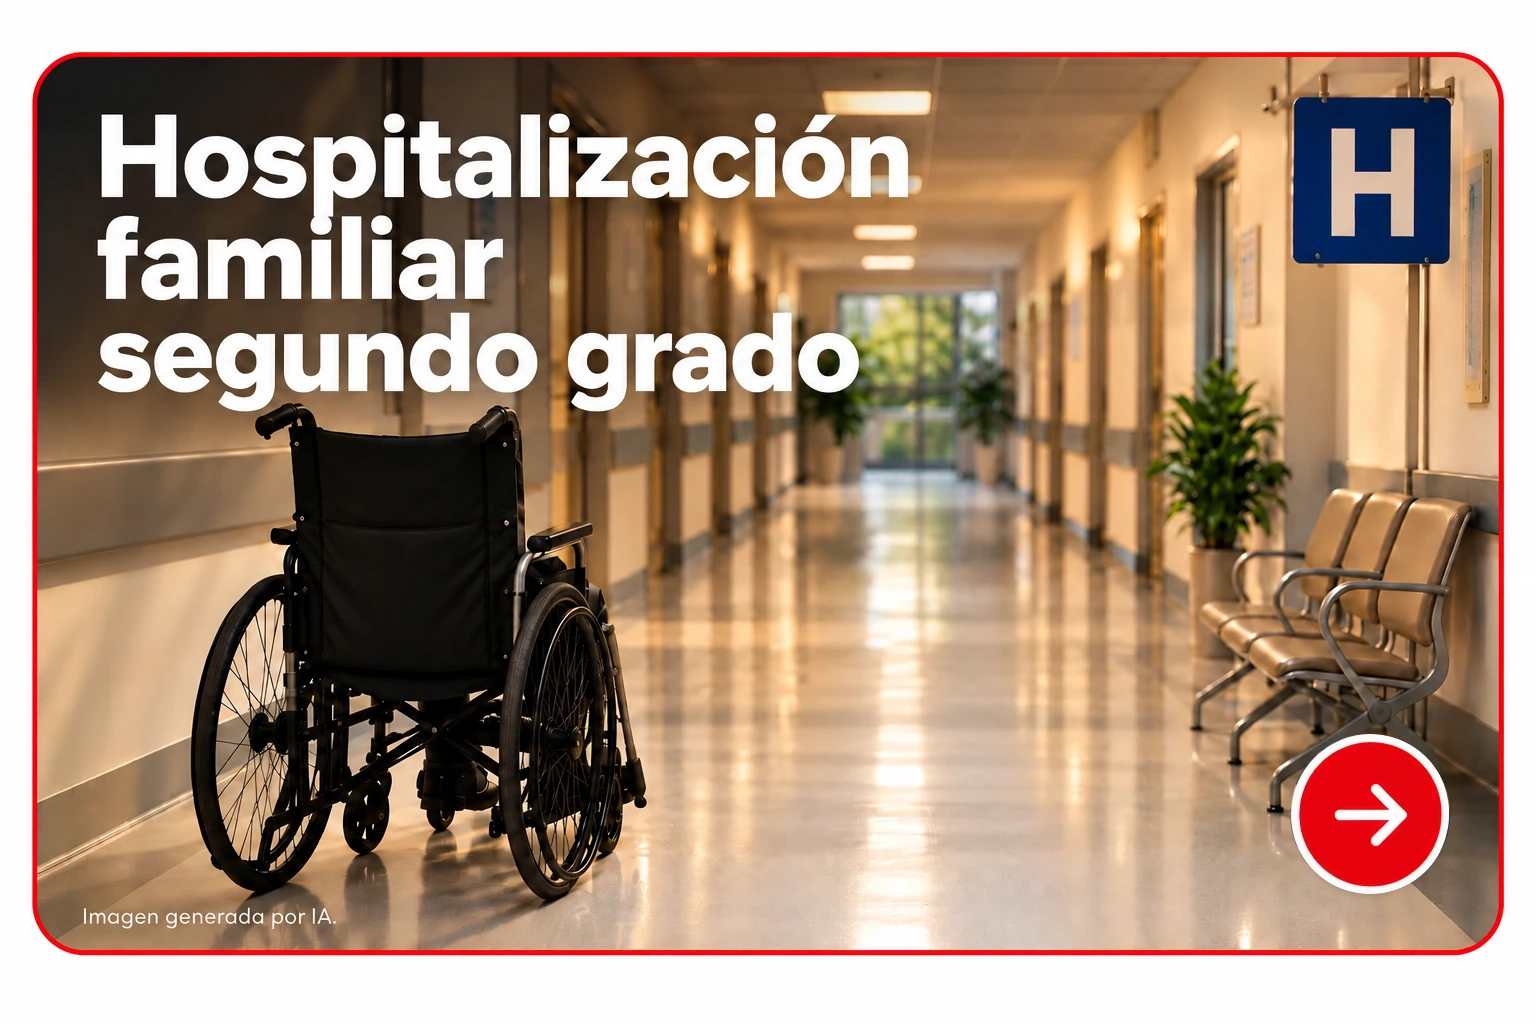
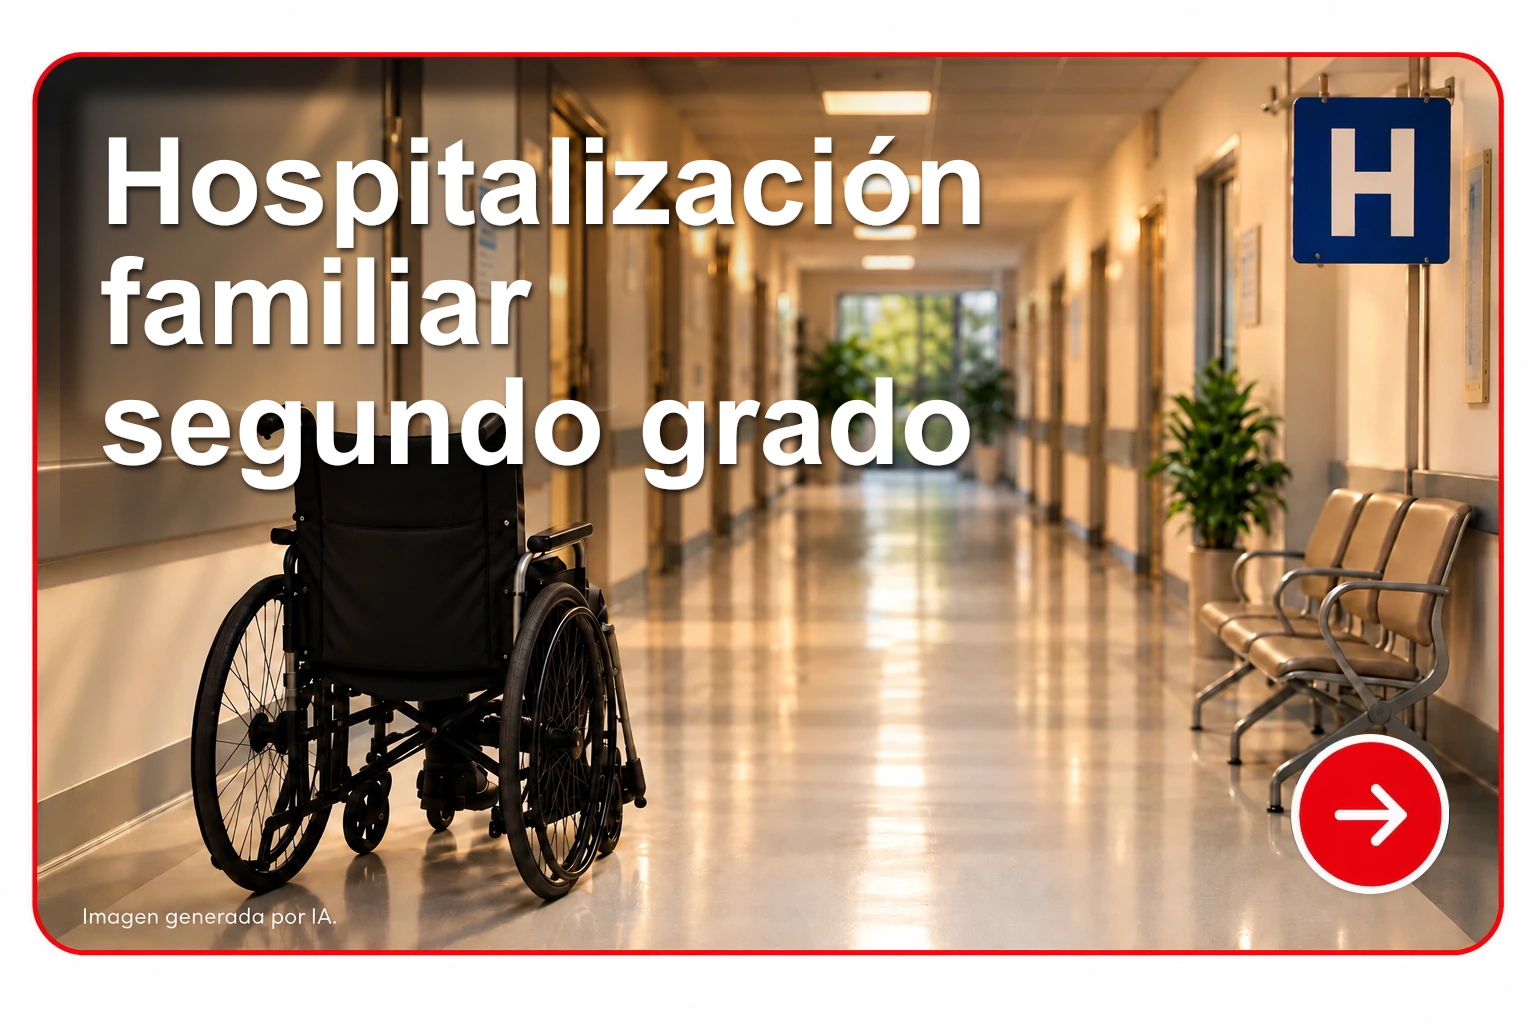
Match second degree hospital card text style to first degree

Changed region(s): [[0.0312, 0.0625, 0.6562, 0.5]]

diff --git a/service-worker.js b/service-worker.js
@@ -1,4 +1,4 @@
-const CACHE_NAME = 'str-ig-cache-v108';
+const CACHE_NAME = 'str-ig-cache-v109';
 
 const SUPABASE_URL = 'https://icneigdnuntzugisexaz.supabase.co';
 const SUPABASE_PUBLISHABLE_KEY = 'sb_publishable_apKjcPClIBTHS2wwN6qPsA_6Vm4tk9m';
